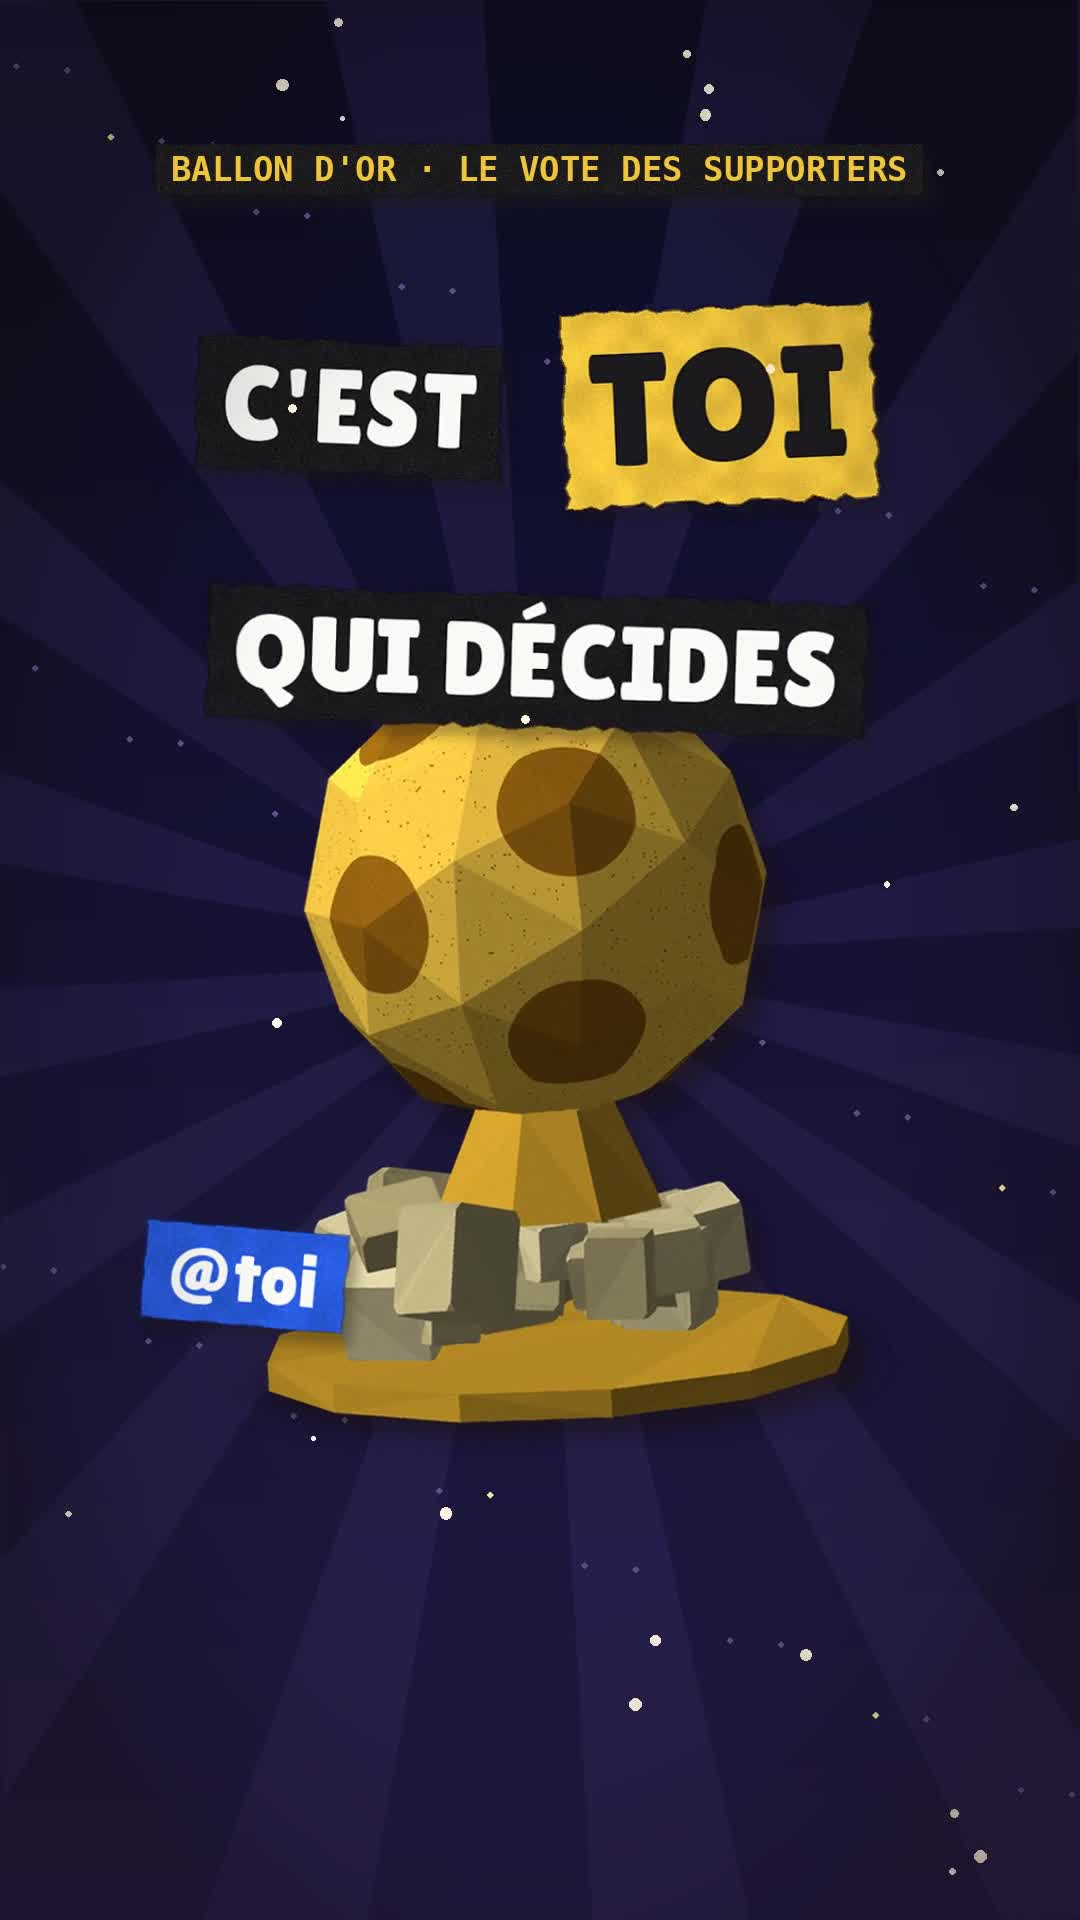
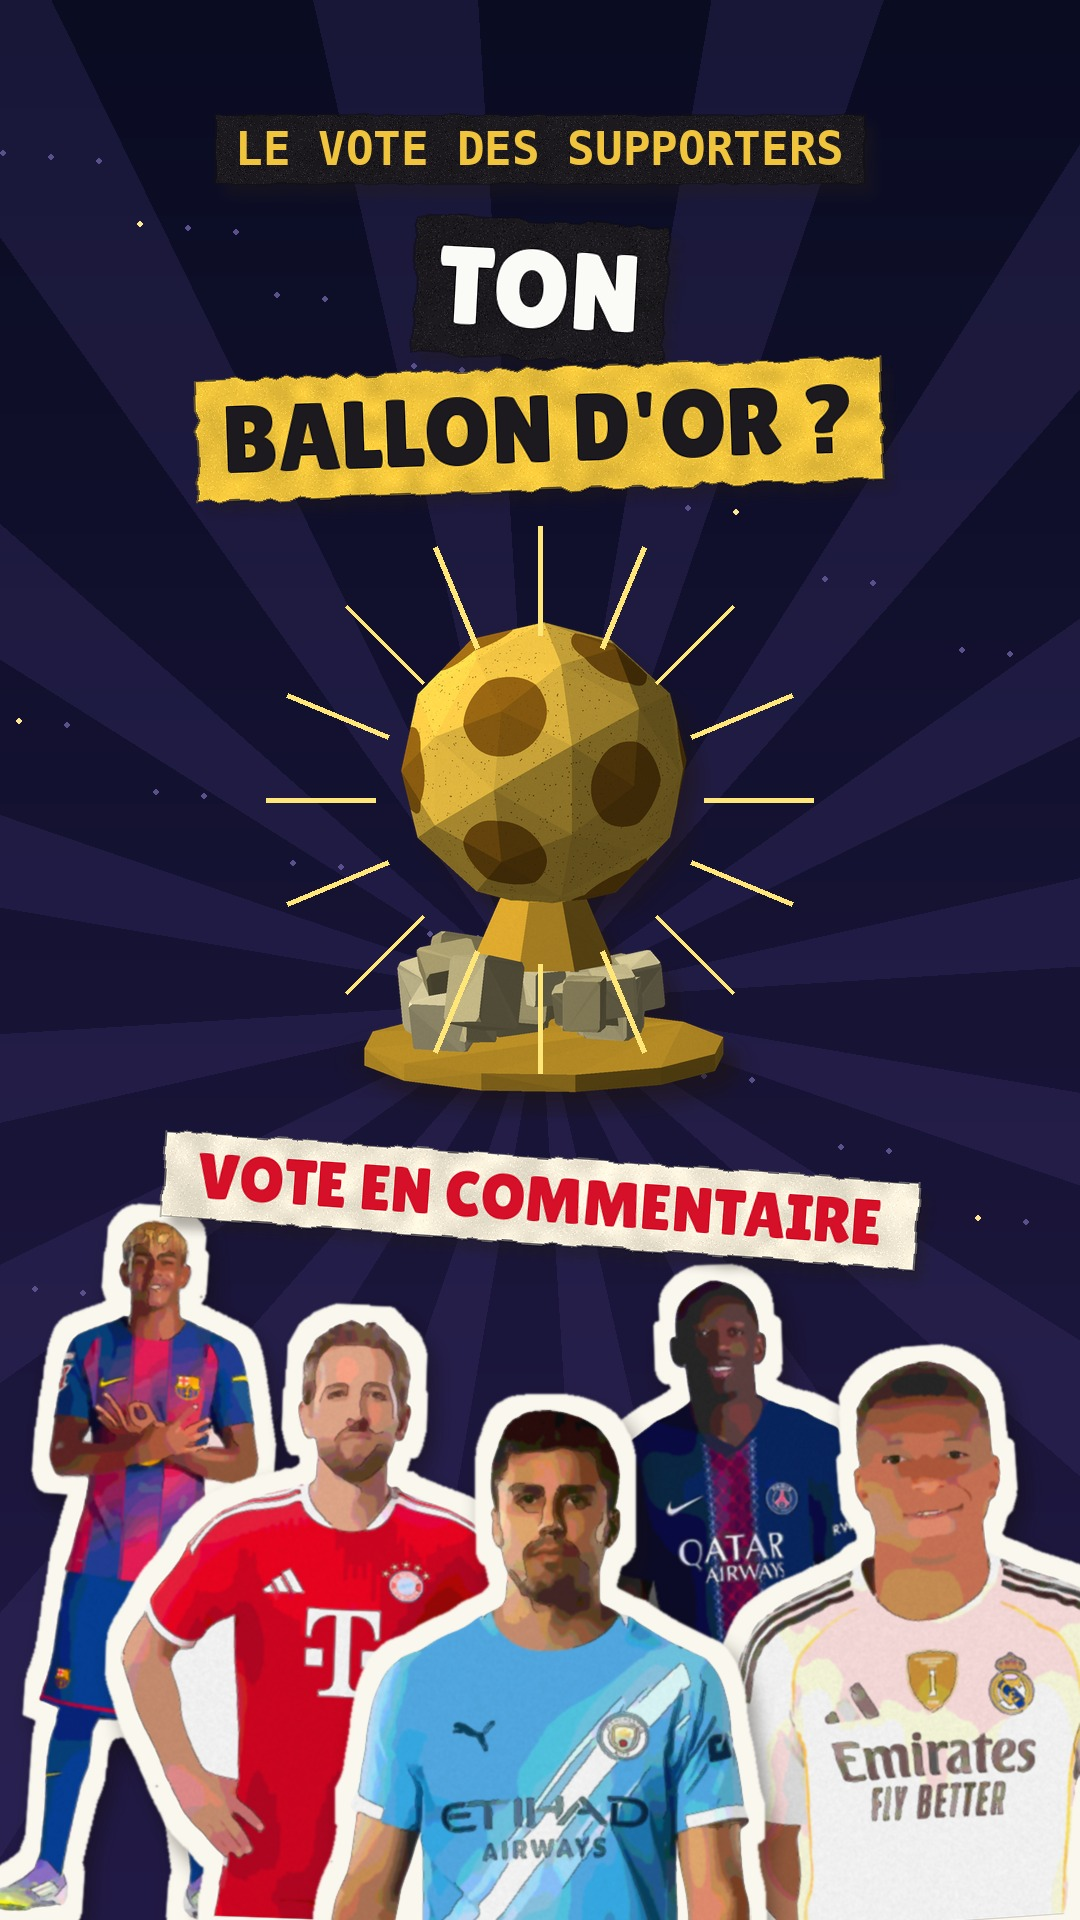
Ballon d'Or : couverture
Claude-Session: https://claude.ai/code/session_01DXpnpJ9jwFkxmTPwukopFs

diff --git a/episodes/ballondor/cover.py b/episodes/ballondor/cover.py
@@ -1,0 +1,18 @@
+"""Couverture 1080x1920 : « TON BALLON D'OR ? » + trophée papier + 5 favoris."""
+import sys, os
+sys.argv = [sys.argv[0], "--noop"]
+HERE = os.path.dirname(os.path.abspath(__file__)); sys.path.insert(0, HERE)
+import ballondor as B
+from ballondor import *
+L = Image.new("RGBA", (W, H)); gala_bg(L, 1.0)
+for i, (n, x, s) in enumerate((("yamal", 120, 700), ("kane", 330, 600), ("dembele", 750, 640), ("mbappe", 960, 560))):
+    put(L, CUT(n, s), x, 1920, 1, (-4, -2, 2, 4)[i])
+put(L, CUT("rodri", 520), CX, 1930, 1, 0)
+put(L, gold_ball(150), CX, 860, 1, 0)
+sparks_burst(L, .2, 0, CX, 800, 16, (255, 230, 120), 330)
+LBL("LE VOTE DES SUPPORTERS", "cv1", font("mono", 46), GOLD, NOIR, padx=20, pady=8, rough=1.5).draw(L, 0, CX, 150, 1, 0)
+KW("TON", NOIR, BLANC, 110).draw(L, 0, CX, 290, 1, -3)
+KW("BALLON D'OR ?", GOLD, NOIR, 96).draw(L, 0, CX, 430, 1, 2)
+stampl("VOTE EN COMMENTAIRE", ROUGE, 64).draw(L, 0, CX, 1200, 1, -4)
+out = os.path.join(ROOT, "output", "ballon_dor_supporters", "ballon_dor_supporters_couverture.jpg")
+L.convert("RGB").save(out, quality=92); print(out)
